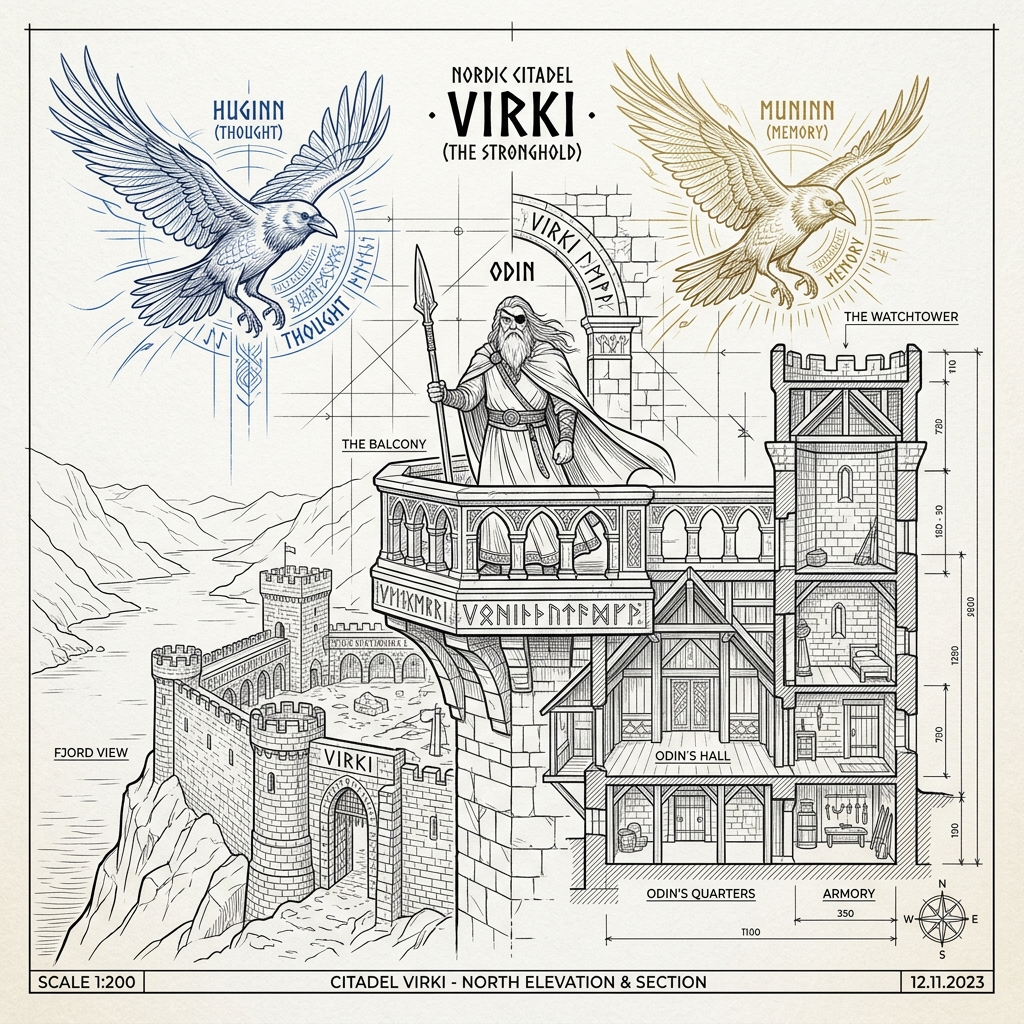
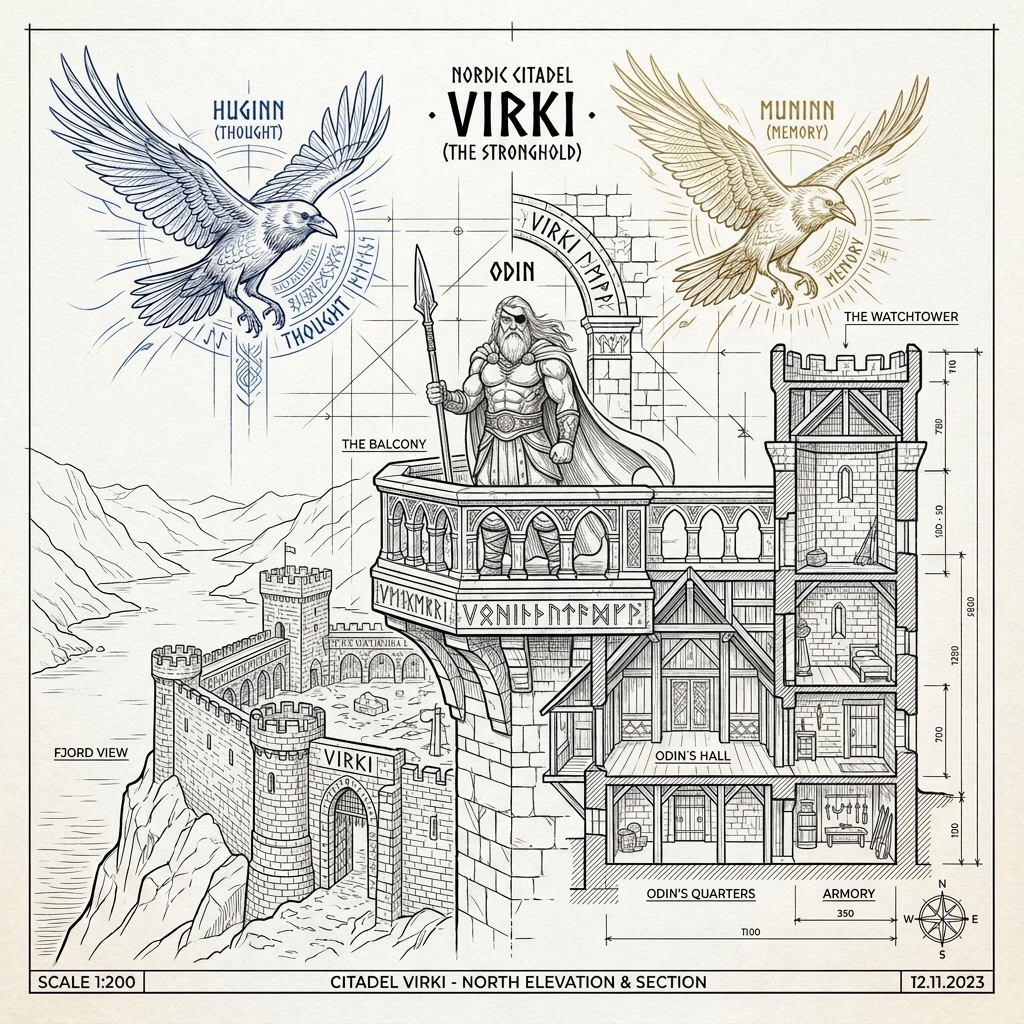
docs(brand): Refine balcony Odin figure to be broad-shouldered and powerful while keeping exact sketchbook layout

diff --git a/docs/17-VIRKI-BRAND-STORY.md b/docs/17-VIRKI-BRAND-STORY.md
@@ -5,7 +5,7 @@
 
 ---
 
-![VIRKI — Die souveräne KI-Festung mit Odin, Huginn & Muninn (Print-Friendly Sketchbook Blueprint)](file:///home/peter/Projekte/1100-AI-OS-V2/docs/assets/virki_odin_sketchbook_bright.png)
+![VIRKI — Die souveräne KI-Festung mit Odin, Huginn & Muninn (Print-Friendly Sketchbook)](file:///home/peter/Projekte/1100-AI-OS-V2/docs/assets/virki_odin_sketchbook_bright.png)
 
 ---
 
